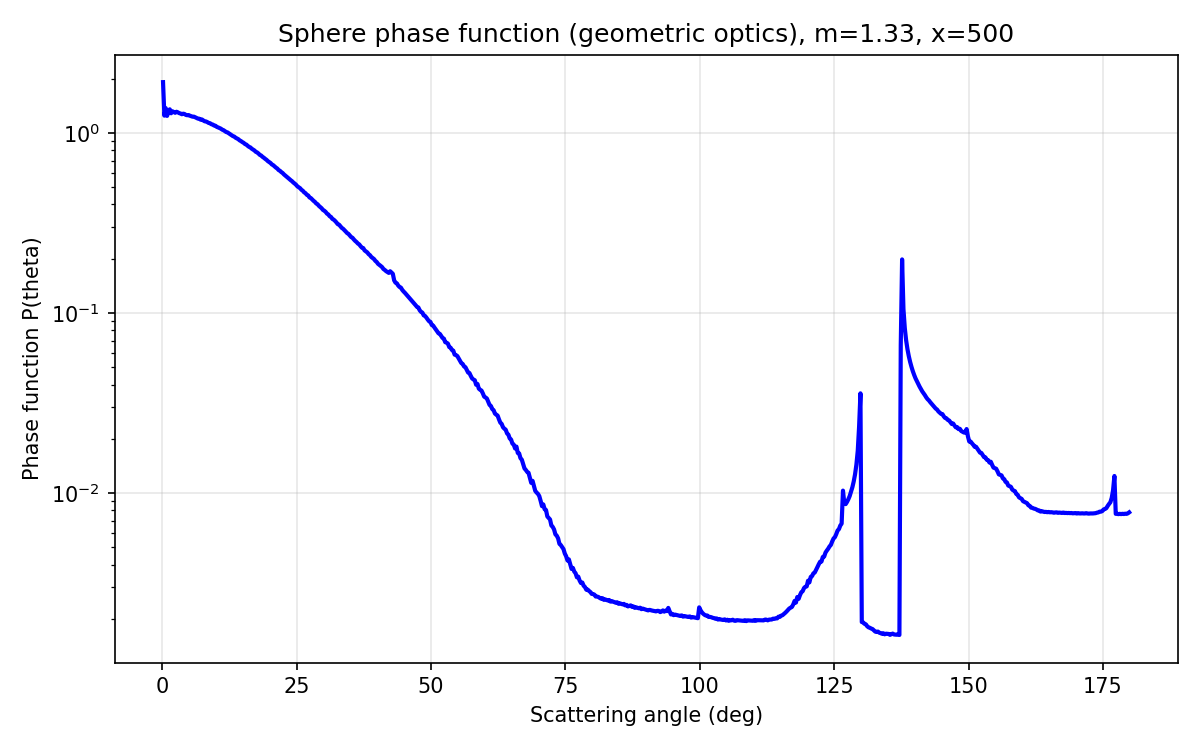
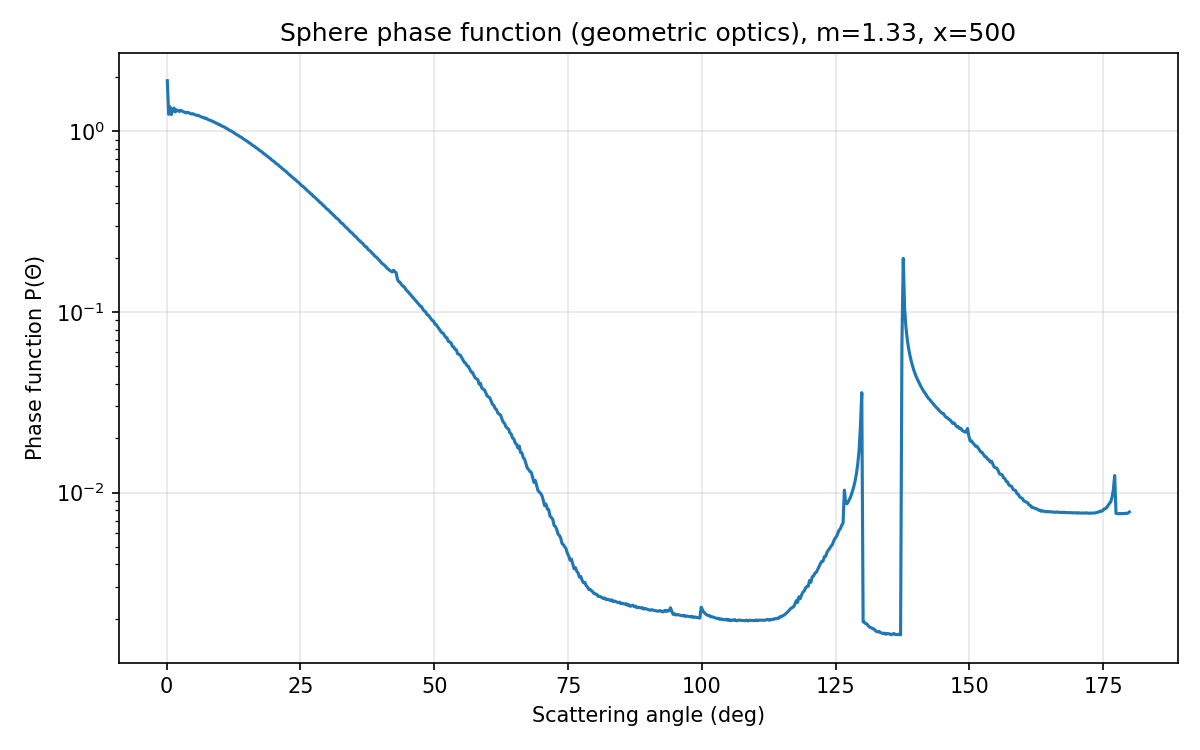
minor changes sphere

diff --git a/sphere.py b/sphere.py
@@ -263,9 +263,9 @@ plt.savefig('sphere_DOLP.png', dpi=150)
 
 # Plot geometric optics phase alone
 plt.figure(figsize=(8, 5))
-plt.semilogy(theta_deg, phase + 1e-30, 'b-', linewidth=2)
+plt.semilogy(theta_deg, phase + 1e-30)
 plt.xlabel("Scattering angle (deg)")
-plt.ylabel("Phase function P(theta)")
+plt.ylabel("Phase function P($\Theta$)")
 plt.title(f"Sphere phase function (geometric optics), m=1.33, x={x:.0f}")
 plt.grid(True, alpha=0.3)
 plt.tight_layout()
